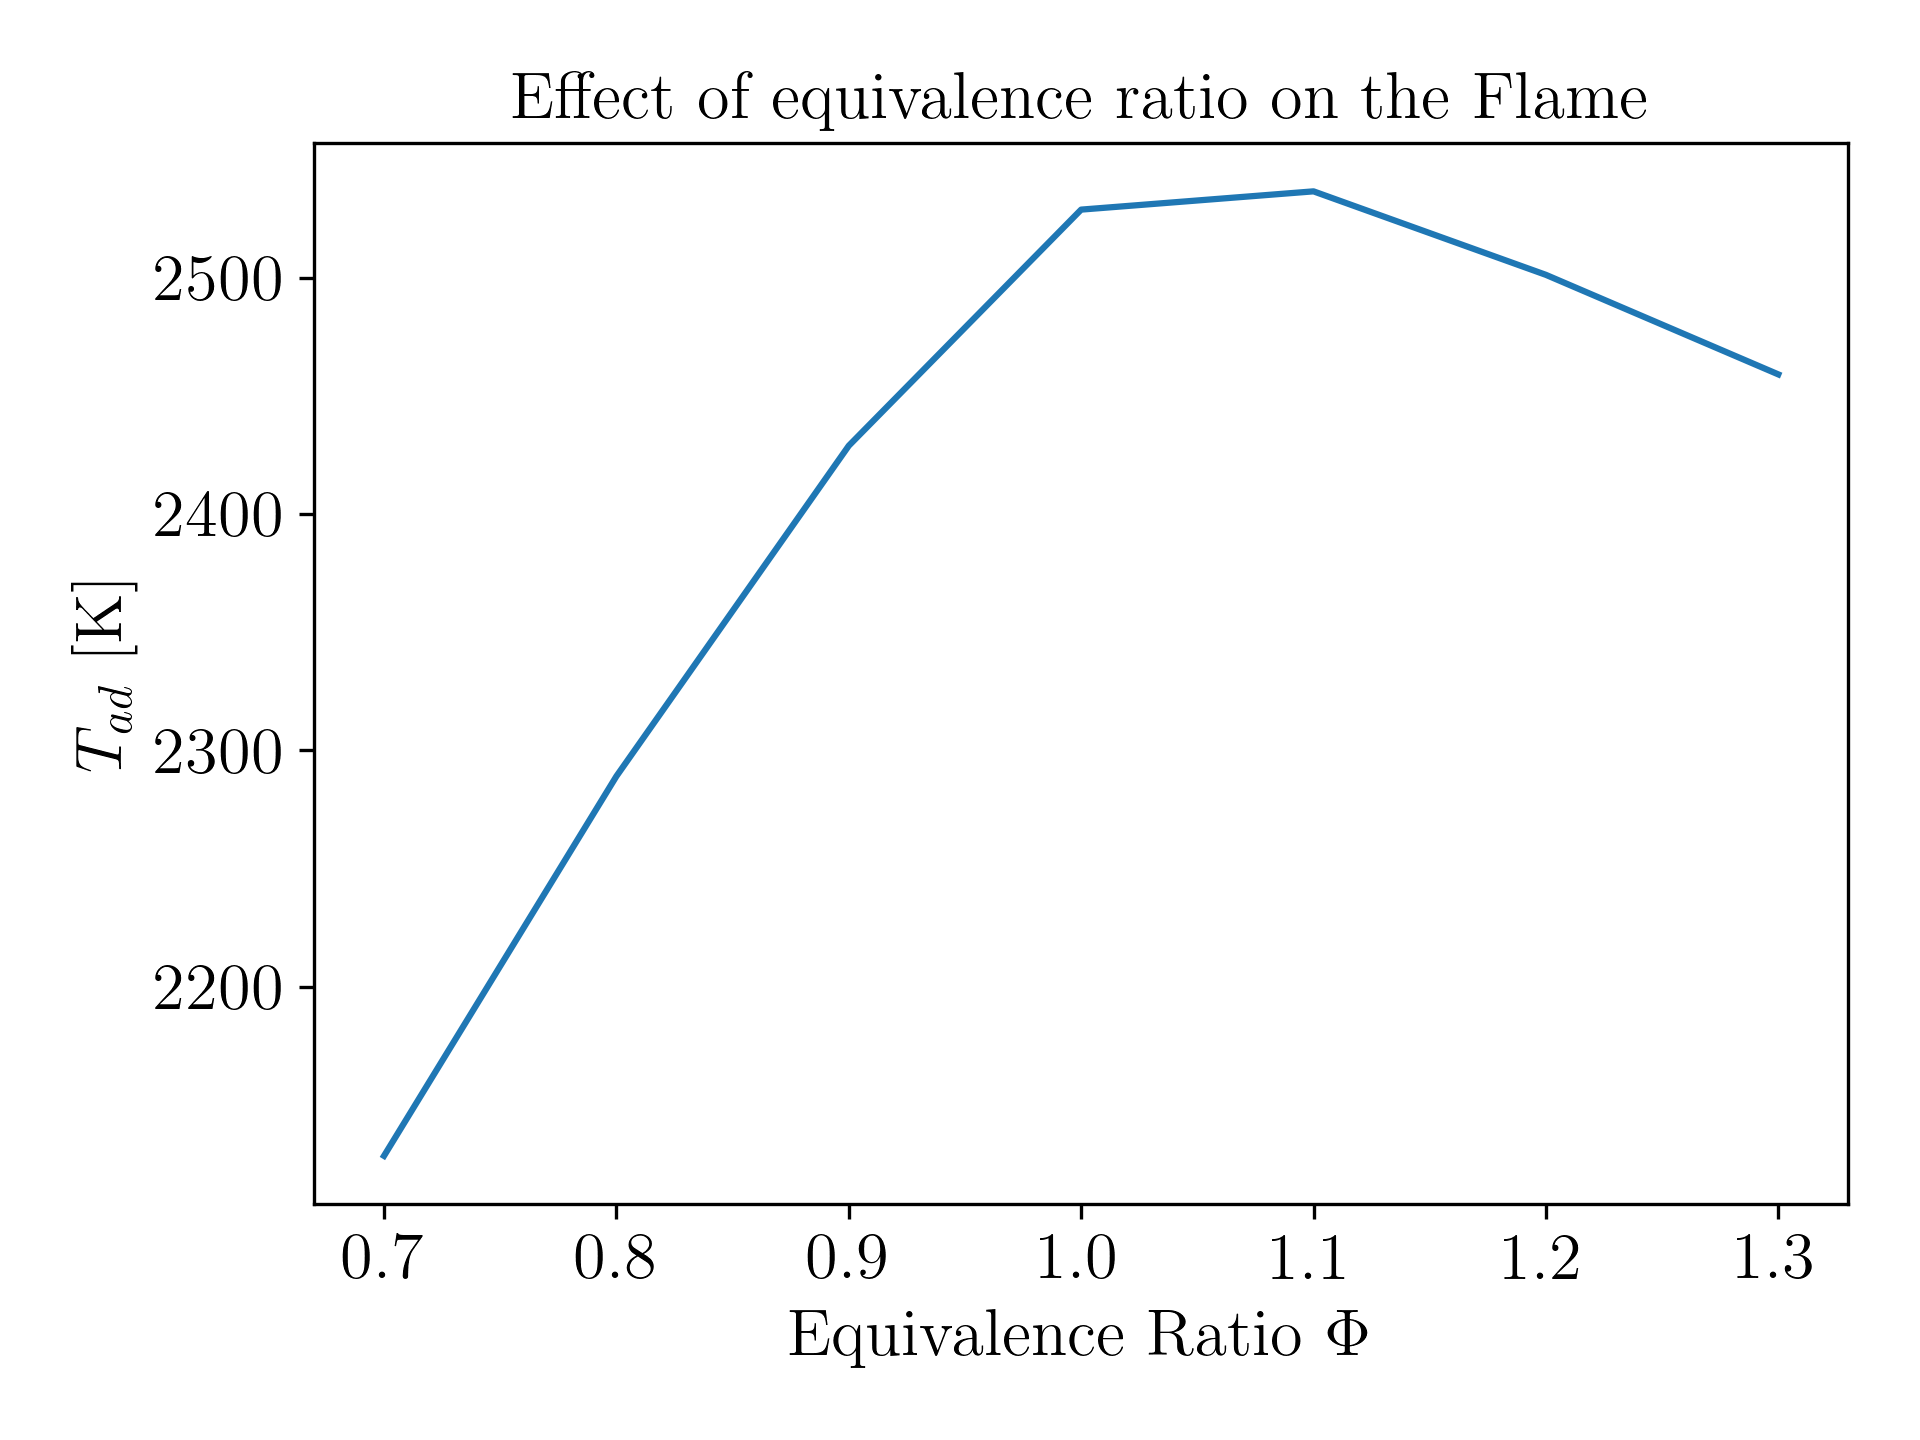
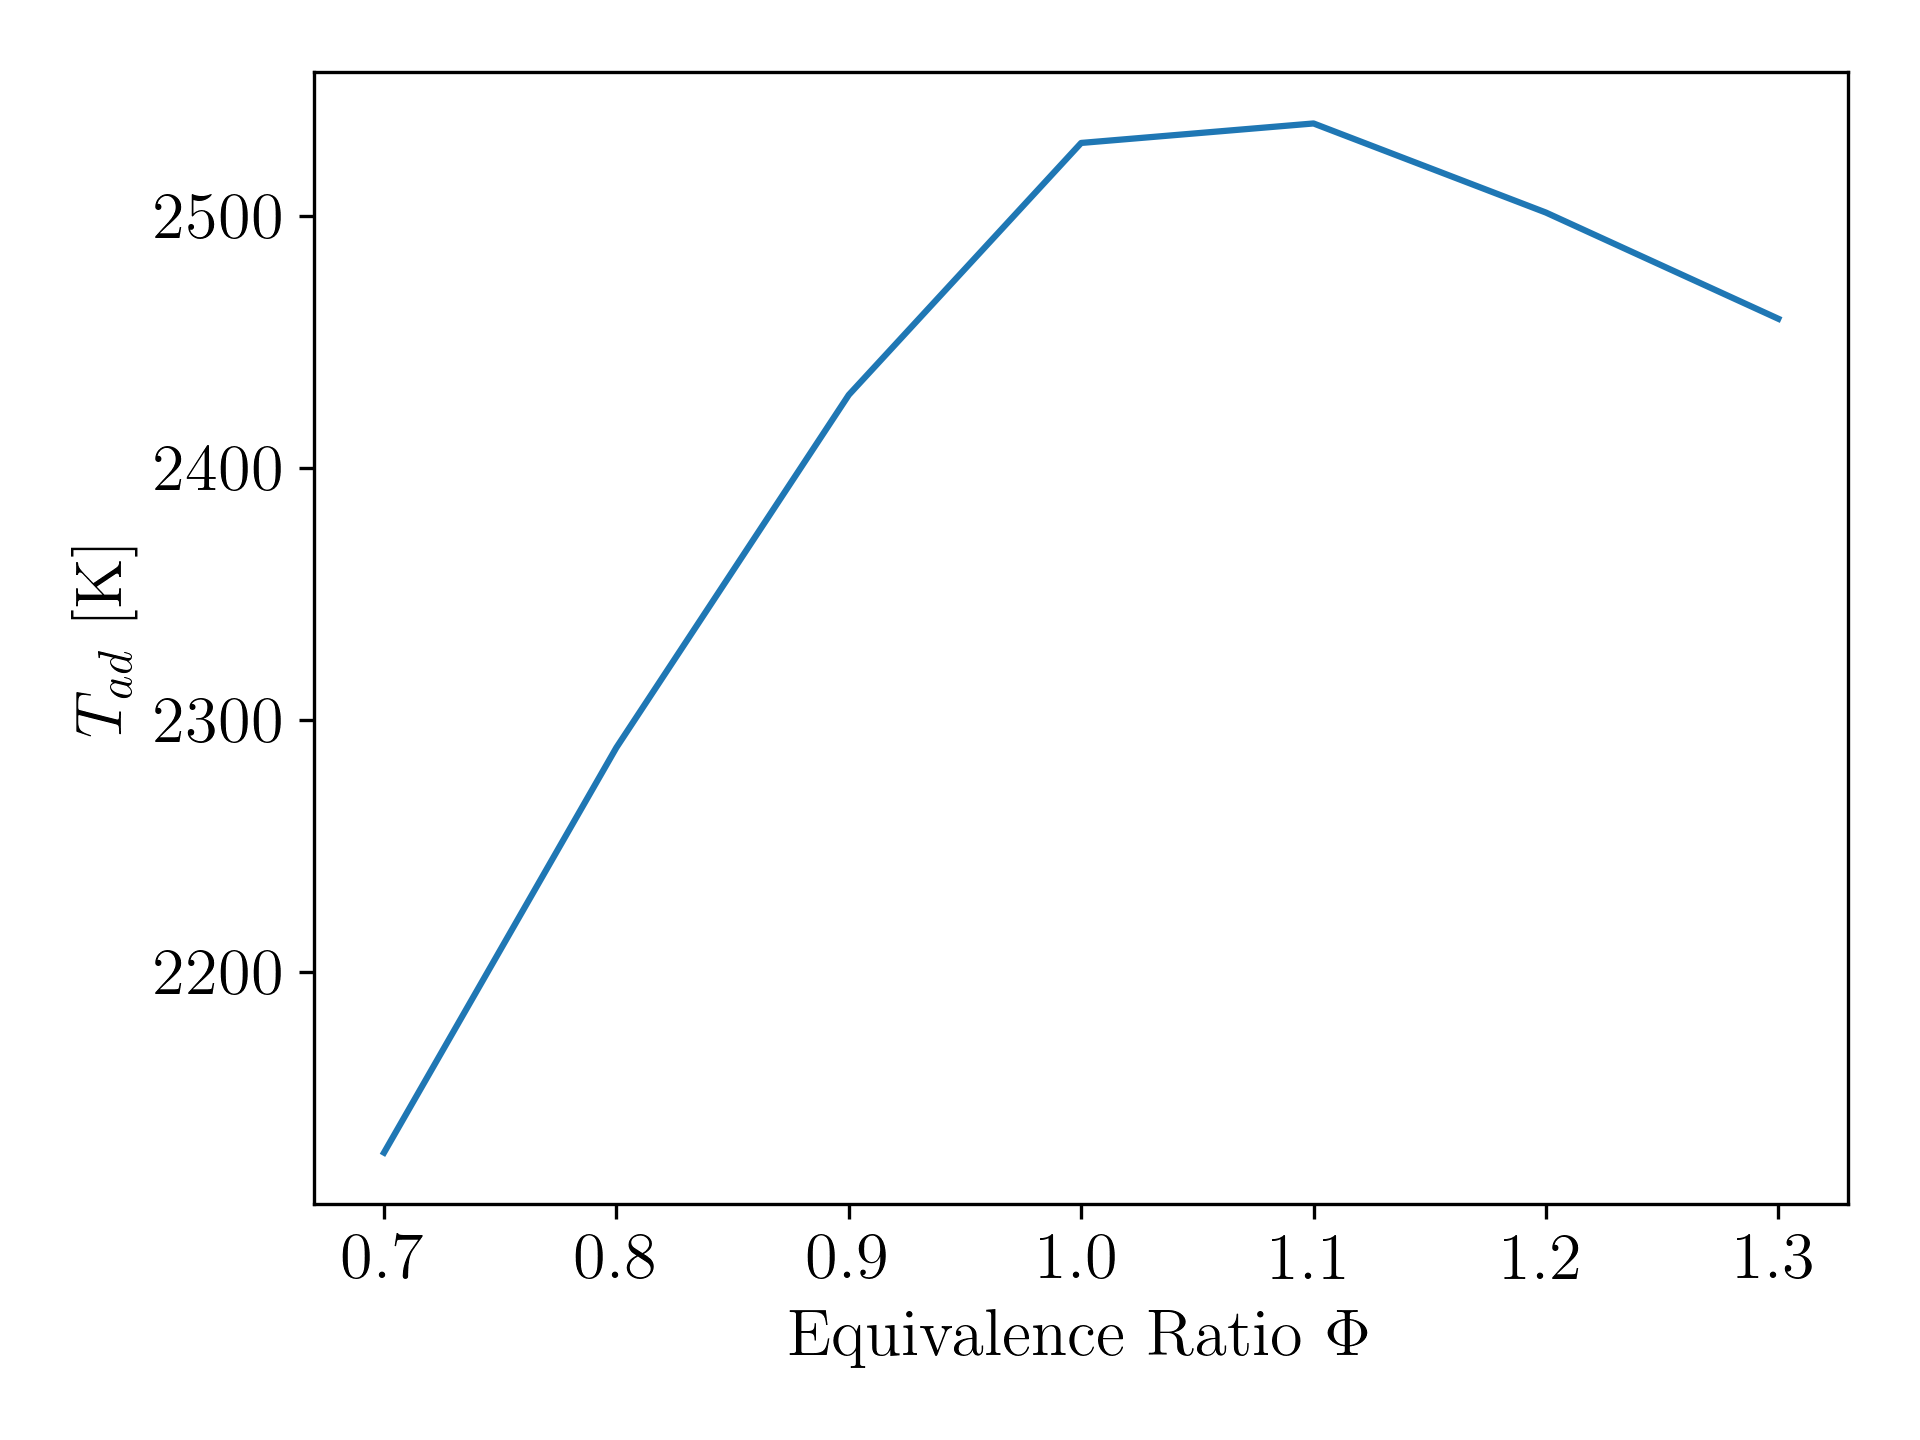
Simplified version of adding Ne

diff --git a/src/neon_simple.py b/src/neon_simple.py
@@ -1,0 +1,182 @@
+import nasapol as nasa
+import reactions as rt 
+import gas as phase 
+import num_method as num
+import numpy as np
+import matplotlib.pyplot as plt
+plt.style.use('../latex.mplstyle')
+
+def molar_frac(T, p, eq_ratio, H2, O2, N2, H2O, OH, O, H, NO, Ne):
+
+    # Reaction values:
+    dG_F_H2O = rt.dG_RT_F_H2O(T, H2, O2, H2O)
+    #print(f"Kp_F H2O = {kp_F_H2O}")
+    dG_F_OH = rt.dG_RT_F_OH(T, H2, O2, OH)
+    #print(f"Kp_F OH = {kp_F_OH}")
+    dG_F_O = rt.dG_RT_F_O(T, O2, O)
+    #print(f"Kp_F O = {kp_F_O}")
+    dG_F_H = rt.dG_RT_F_H(T, H2, H)
+    #print(f"Kp_F H = {kp_F_H}")
+    dG_F_NO = rt.dG_RT_F_NO(T, N2, O2, NO)
+    #print(f"Kp_F NO = {kp_F_NO}")
+
+    dG_F = np.array([dG_F_H2O, dG_F_OH, dG_F_O, dG_F_H, dG_F_NO])
+
+    # Iterative method tolerance
+    max_it_b = 15
+    error_norm = 0.01
+    error_T = 0.01 
+
+    # Define the vector of mole fractions X as:
+    # X = [X_H2, X_O2, X_N2, X_H2O, X_OH, X_O, X_H, X_NO, X_Ne]
+    X_guess = np.array([3e-3, 1e-3, 0.45, 0.23, 1e-3, 1e-5, 1e-4, 3e-4, 0.3])
+    #X_guess = np.array([1e-2, 5e-4, 0.64, 0.3, 5e-3, 2e-4, 8e-4, 2e-3, 0])
+    n_tot_f = rt.get_final_moles(X_guess, eq_ratio)
+    #X_guess[8] = n_Ne/n_tot_f
+
+    X_k_old = X_guess
+    T_k_old = T 
+    error_old = 1
+    #n_Ne_old = 2e-2
+
+    for i in range(10):
+
+        #n_tot_i = rt.get_initial_moles_ne(eq_ratio, n_Ne)
+        n_tot_f = rt.get_final_moles(X_guess, eq_ratio)
+        n_Ne = n_tot_f*X_k_old[8]
+        #print(f"n_Ne: {n_Ne:.2f} moles")
+        H_react = rt.H_react_Ne(eq_ratio, H2, O2, N2, n_Ne, Ne)
+        #print(f"H_react: {H_react:.2f} J")
+        H_prod = rt.H_prod_Ne(T, X_guess, eq_ratio, H2, O2, N2, 
+                              H2O, OH, O, H, NO, Ne, n_tot_f)
+        #print(f"H_prod: {H_prod:.2f} J")
+
+        # Euler's method for:
+        # x_k = x_k-1 - J^-1(x_k-1)F(x_k-1), 
+        # given J as the jacobian of the F function.
+        j_inv = np.linalg.inv(num.jacobian_Ne(X_k_old, p, T, n_tot_f,
+                                              H2, O2, N2, H2O, OH, O, H, NO, Ne))
+        F_X_k_old = num.F_Ne(X_k_old, p, eq_ratio, dG_F, H_react, H_prod)
+        j_inv_F_X_k_old = np.matmul(j_inv, F_X_k_old).T
+        j_inv_F_X_k_old = np.squeeze(j_inv_F_X_k_old)
+        #print("J^-1F = ", j_inv_F_X_k_old)
+        #print(j_inv_F_X_k_old.shape)
+        X_k = np.add(X_k_old, -j_inv_F_X_k_old)
+
+        # Verifying the validity of the results
+        #print(f"Species = {species}")
+        print(f"X = {X_k}")
+        print(f"Sum of X = {np.sum(X_k)}")
+        print(f"Error[{i+1}] = {np.linalg.norm(X_k - X_k_old)}")
+
+        #print('T = ', T_k_old)
+        error = np.linalg.norm(X_k - X_k_old)
+
+        if (error > error_old) or np.isnan(error):
+        #if np.isnan(error):
+            print(f"Euler method diverging at iteration {i+1}")
+            X_k = X_k_old # returning to the old value
+            #T_k = num.bisection_Ne(T_k_old, H_react, X_k, eq_ratio, H2, O2, N2, H2O, 
+                                #OH, O, H, NO, Ne, n_tot_f, error_T, max_it_b, i+1)
+            break
+        else:
+            error_old = error
+            X_k_old = X_k
+            #T_k = num.bisection_Ne(T_k_old, H_react, X_k, eq_ratio, H2, O2, N2, H2O, 
+                                #OH, O, H, NO, Ne, n_tot_f, error_T, max_it_b, i+1)
+            #T_k_old = T_k
+
+    #return X_k, T_k
+    return X_k
+
+if __name__ == '__main__':
+
+    # State properties
+    p = 20
+    eq_ratio = 1
+    T_target = 2289.11
+    T_start = 2500
+    #T = 2500 
+
+    # Initializing products:
+    species = ['H2', 'O2', 'N2', 'H2O', 'OH', 'O', 'H', 'NO', 'Ne']
+    H2 = phase.gas('H2')
+    O2 = phase.gas('O2')
+    N2 = phase.gas('N2')
+    H2O = phase.gas('H2O')
+    OH = phase.gas('OH')
+    O = phase.gas('O')
+    H = phase.gas('H')
+    NO = phase.gas('NO')
+    Ne = phase.gas('Ne')
+
+    #n_Ne_a = np.linspace(0, 0.02, 9)
+    n_Ne_a = np.linspace(0, 2, 11)
+
+    T_f = np.empty_like(n_Ne_a)
+    Target = T_target * np.ones_like(n_Ne_a)
+
+    #for i, n_Ne in enumerate(n_Ne_a):
+
+    #    #X, T = molar_frac(T, p, eq_ratio, H2, O2, N2, H2O, OH, O, H, NO, Ne, n_Ne)
+    #    X = molar_frac(T_target, p, eq_ratio, H2, O2, N2, H2O, OH, O, H, NO, Ne, n_Ne)
+    #    
+    #    print(f"n_Ne = {n_Ne:.5f}")
+    #    print(f"X = {X}")
+    #    print(f"T = {T}")
+
+    #    T_f[i] = T
+
+    #    if T<T_target:
+    #        # Properties:
+    #        n_tot_f = rt.get_final_moles(X, eq_ratio)
+    #        H_react = rt.H_react_Ne(eq_ratio, H2, O2, N2, n_Ne, Ne)
+    #        H_prod = rt.H_prod_Ne(T, X, eq_ratio, H2, O2, N2, 
+    #                              H2O, OH, O, H, NO, Ne, n_tot_f)
+
+    #        print(f"---End results for n_Ne of {n_Ne:.5f}")
+    #        print(f"n_tot = {n_tot_f:.2f}")
+    #        print(f"H_react = {H_react:.2f} J")
+    #        print(f"H_prod({T:.2f}) = {H_prod:.2f} J")
+    #        print(f"Flame temperature = {T:.2f} K")
+    #        print(f"X_H2 = {X[0]*100:.2f}%")
+    #        print(f"X_O2 = {X[1]*100:.2f}%")
+    #        print(f"X_N2 = {X[2]*100:.2f}%")
+    #        print(f"X_H2O = {X[3]*100:.2f}%")
+    #        print(f"X_OH = {X[4]*100:.2f}%")
+    #        print(f"X_O = {X[5]*100:.2f}%")
+    #        print(f"X_H = {X[6]*100:.2f}%")
+    #        print(f"X_NO = {X[7]*100:.2f}%")
+    #        print(f"X_Ne = {X[8]*100:.2f}%")
+    #        break
+
+    X = molar_frac(T_target, p, eq_ratio, H2, O2, N2, H2O, OH, O, H, NO, Ne)
+
+    # Properties:
+    n_tot_f = rt.get_final_moles(X, eq_ratio)
+    n_Ne = n_tot_f*X[8]
+    H_react = rt.H_react_Ne(eq_ratio, H2, O2, N2, n_Ne, Ne)
+    H_prod = rt.H_prod_Ne(T_target, X, eq_ratio, H2, O2, N2, 
+                          H2O, OH, O, H, NO, Ne, n_tot_f)
+
+    print(f"n_tot = {n_tot_f:.2f}")
+    print(f"H_react = {H_react:.2f} J")
+    print(f"H_prod({T_target:.2f}) = {H_prod:.2f} J")
+    print(f"Flame temperature = {T_target:.2f} K")
+    print(f"X_H2 = {X[0]*100:.3f}%")
+    print(f"X_O2 = {X[1]*100:.3f}%")
+    print(f"X_N2 = {X[2]*100:.3f}%")
+    print(f"X_H2O = {X[3]*100:.3f}%")
+    print(f"X_OH = {X[4]*100:.3f}%")
+    print(f"X_O = {X[5]*100}%")
+    print(f"X_H = {X[6]*100:.3f}%")
+    print(f"X_NO = {X[7]*100:.3f}%")
+    print(f"X_Ne = {X[8]*100:.3f}%")
+
+    #fig1, ax1 = plt.subplots() 
+    #ax1.plot(n_Ne_a[:(i+1)], T_f[:(i+1)], label='Flame')
+    #ax1.plot(n_Ne_a[:(i+1)], Target[:(i+1)], label='Target')
+    #ax1.set(xlabel='Moles of Ne', ylabel='Temperature [K]')
+    #ax1.legend()
+
+    #plt.show()

diff --git a/src/main.py b/src/main.py
@@ -109,7 +109,7 @@ def get_label(i):
 if __name__ == '__main__':
 
     # State properties
-    ps = np.linspace(2, 10, 9) #* ct.one_atm
+    ps = np.linspace(2, 20, 19) #* ct.one_atm
     
     # Define equivalence ration interval 
     #N = int((1.3-0.7)/0.1 + 1)
@@ -188,21 +188,27 @@ if __name__ == '__main__':
         #print(f"X_NO = {X_eq[7]*100:.2f}%")
         #exit()
 
+    np.savetxt('../data/eq_ratio_molar.csv', X_matrix_eq, delimiter=',')
+
     fig1, ax1 = plt.subplots()
     ax1.plot(eq_ratios, T_final_eq)
-    ax1.set(xlabel="Equivalence Ratio $\Phi$", ylabel="$T_{ad}$ [K]",
-           title="Effect of equivalence ratio on the Flame")
+    ax1.set(xlabel="Equivalence Ratio $\Phi$", ylabel="$T_{ad}$ [K]")
     ax1.grid()
     fig1.savefig('../figs/eq_ratio.png')
     
-    fig2, ax2 = plt.subplots()
+    fig2, ax2 = plt.subplots(1, 2)
     for i in range(len(X_matrix_eq[0, :])):
-        ax2.plot(eq_ratios, X_matrix_eq[:, i], label=get_label(i))
-    ax2.set(xlabel="Equivalence Ratio $\Phi$", ylabel="Molar Fractions",
-           title="Equilibrium composition")
-    ax2.set_yscale('log')
-    ax2.legend()
-    ax2.grid()
+        ax2[0].plot(eq_ratios, X_matrix_eq[:, i], label=get_label(i))
+    ax2[0].set(xlabel="Equivalence Ratio $\Phi$", ylabel="Molar Fractions")
+    #ax2[0].set_yscale('log')
+    ax2[0].grid()
+    for i in range(len(X_matrix_eq[0, :])):
+        ax2[1].plot(eq_ratios, X_matrix_eq[:, i], label=get_label(i))
+    ax2[1].set(xlabel="Equivalence Ratio $\Phi$")
+    ax2[1].set_yscale('log')
+    ax2[1].grid()
+    ax2[0].legend()
+    #fig2.suptitle("Equilibrium Composition")
     fig2.savefig('../figs/eq_ratio_mf.png')
 
     for i, p in enumerate(ps):
@@ -234,21 +240,26 @@ if __name__ == '__main__':
         #print(f"X_H = {X_p[6]*100:.2f}%")
         #print(f"X_NO = {X_p[7]*100:.2f}%")
 
+    np.savetxt('../data/pressure_molar.csv', X_matrix_p, delimiter=',')
+
     fig3, ax3 = plt.subplots()
     ax3.plot(ps, T_final_p)
-    ax3.set(xlabel="Pressure [atm]", ylabel="$T_{ad}$ [K]",
-           title="Effect of pressure on the Flame")
+    ax3.set(xlabel="Pressure [atm]", ylabel="$T_{ad}$ [K]")
     ax3.grid()
     fig3.savefig('../figs/pressure.png')
     
-    fig4, ax4 = plt.subplots()
+    fig4, ax4 = plt.subplots(1, 2)
     for i in range(len(X_matrix_p[0, :])):
-        ax4.plot(ps, X_matrix_p[:, i], label=get_label(i))
-    ax4.set(xlabel="Pressure [atm]", ylabel="Molar Fractions",
-           title="Equilibrium composition")
-    #ax4.set_yscale('log')
-    ax4.legend(loc='center right')
-    ax4.grid()
+        ax4[0].plot(ps, X_matrix_p[:, i], label=get_label(i))
+    ax4[0].set(xlabel="Pressure [atm]", ylabel="Molar Fractions")
+    #ax4[0].set_yscale('log')
+    ax4[0].grid()
+    for i in range(len(X_matrix_p[0, :])):
+        ax4[1].plot(ps, X_matrix_p[:, i], label=get_label(i))
+    ax4[1].set(xlabel="Pressure [atm]")
+    ax4[1].set_yscale('log')
+    ax4[1].grid()
+    ax4[0].legend(loc='center right')
     fig4.savefig('../figs/pressure_mf.png')
     #plt.show()
 
